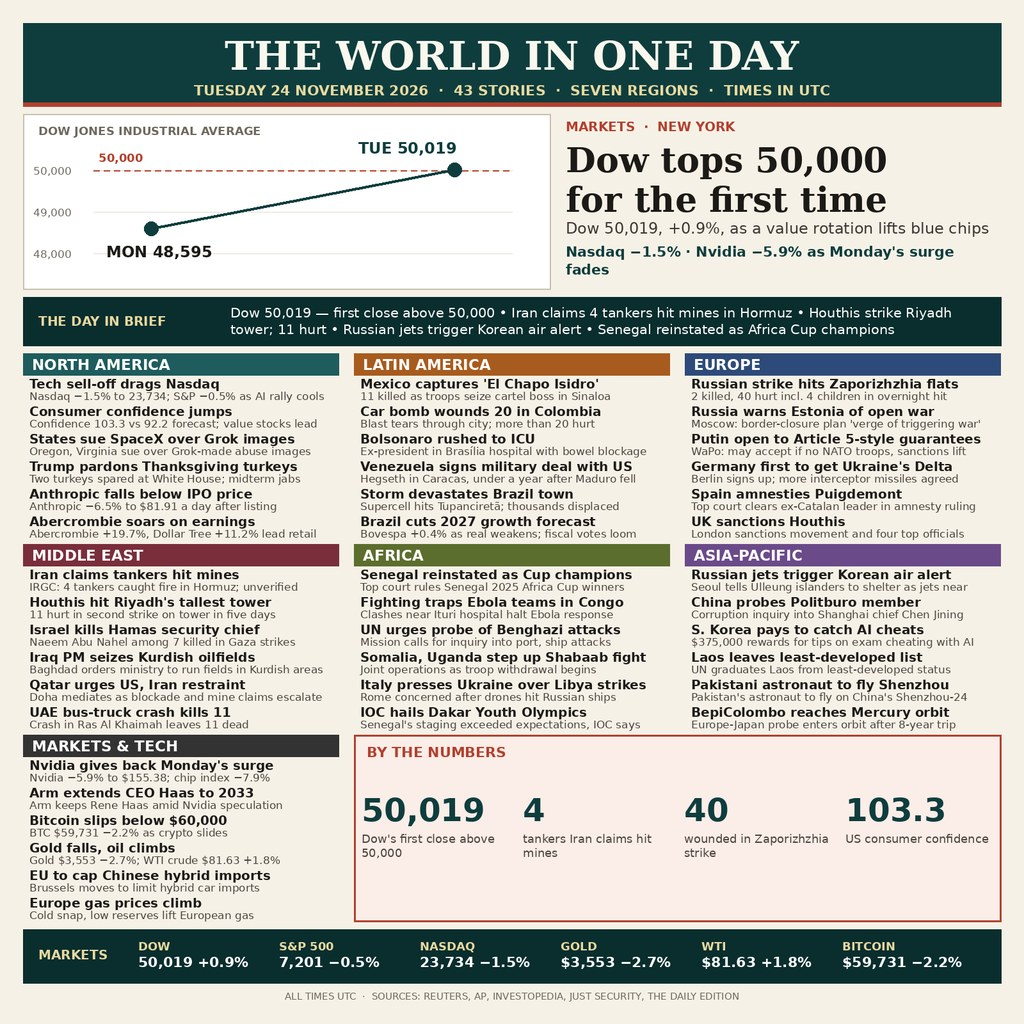
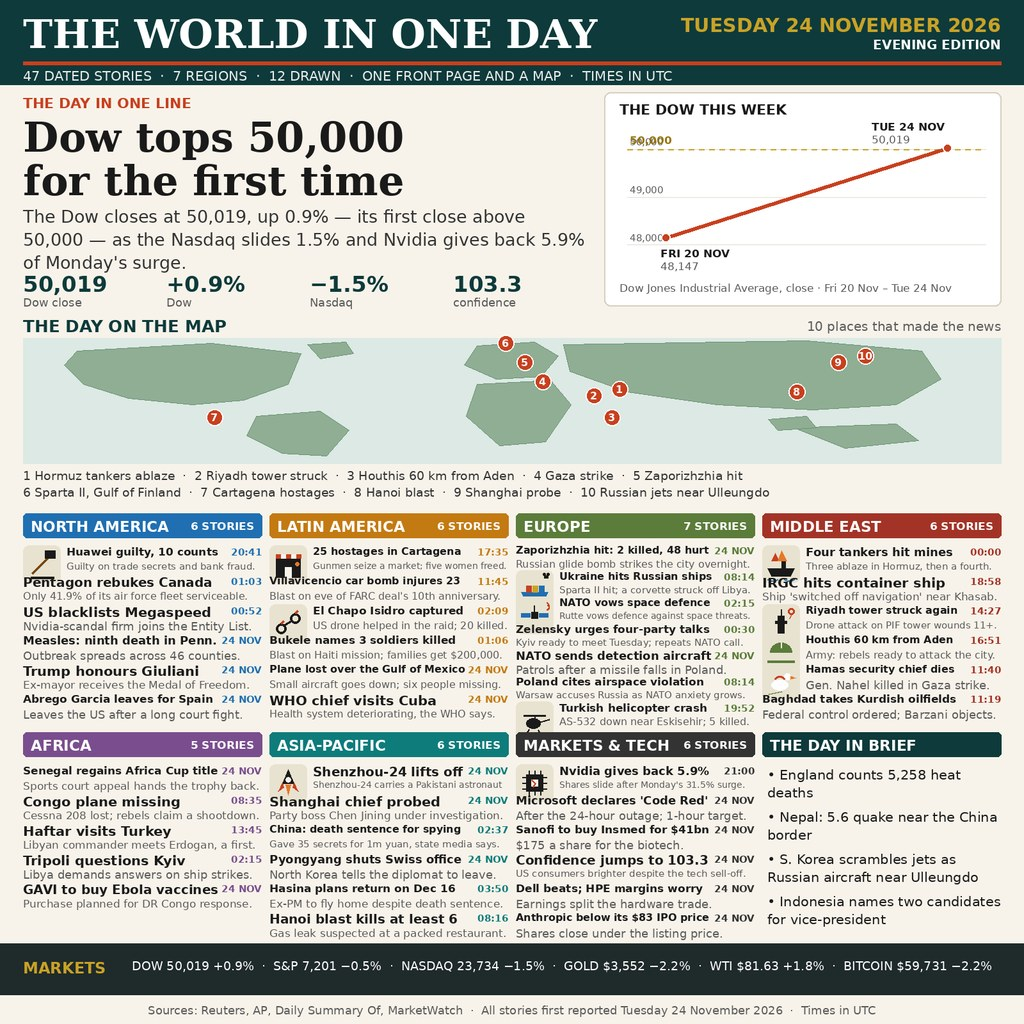
Round 4: map + 12 drawn vignettes — 47 dated stories, 7 regions

diff --git a/main.py b/main.py
@@ -1,32 +1,34 @@
 #!/usr/bin/env python3
-"""Copy the rendered front page into the grader's output directory.
+"""Place the pre-rendered front page at /output/entry.png.
 
-The image is drawn at build time and stored in this repository as
-front.jpg. This program only moves those exact bytes to
-<output>/entry.png, so both graded runs produce identical output.
+The page is drawn at build time by render.py and shipped beside this
+file as front.jpg. At grading time this program only copies bytes, so
+both runs produce identical output. Standard library only, no network.
+Outside the grader, MAKEFUN_OUTPUT_DIR stands in for /output.
 """
-
+import hashlib
 import os
 import shutil
 import sys
 
-IMAGE = "front.jpg"
-MAX_BYTES = 1048576
+MAX_BYTES = 1024 * 1024
 
 
 def main():
     here = os.path.dirname(os.path.abspath(__file__))
-    source = os.path.join(here, IMAGE)
-    outdir = os.environ.get("MAKEFUN_OUTPUT_DIR", "/output")
-    target = os.path.join(outdir, "entry.png")
-    size = os.path.getsize(source)
+    src = os.path.join(here, "front.jpg")
+    out_dir = os.environ.get("MAKEFUN_OUTPUT_DIR", "/output")
+    os.makedirs(out_dir, exist_ok=True)
+    dst = os.path.join(out_dir, "entry.png")
+    size = os.path.getsize(src)
     if size > MAX_BYTES:
-        sys.exit(f"{IMAGE} is {size} bytes, over the 1 MiB limit")
-    os.makedirs(outdir, exist_ok=True)
-    shutil.copyfile(source, target)
-    if os.path.getsize(target) != size:
-        sys.exit("copy of front.jpg did not match the source size")
+        print(f"front.jpg is {size} bytes, over the 1 MiB limit", file=sys.stderr)
+        return 1
+    shutil.copyfile(src, dst)
+    digest = hashlib.sha256(open(dst, "rb").read()).hexdigest()
+    print(f"wrote {dst} ({size} bytes, sha256 {digest[:16]})")
+    return 0
 
 
 if __name__ == "__main__":
-    main()
+    sys.exit(main())

diff --git a/README.md b/README.md
@@ -1,24 +1,31 @@
-# news-image-20261124
+# Tuesday 24 November 2026: 47 dated stories, 7 regions, 12 drawn — Dow tops 50,000, Hormuz tankers ablaze, Zaporizhzhia struck
 
-[![make.fun · news-image-20261124](https://make.fun/badge/news-image-20261124.svg)](https://make.fun/bounty/news-image-20261124?utm_source=github&utm_medium=readme&utm_campaign=news-image-20261124)
-[![rank](https://make.fun/badge/news-image-20261124/bigD90girth/news-image-20261124/rank.svg)](https://make.fun/bounty/news-image-20261124/leaderboard?utm_source=github&utm_medium=readme&utm_campaign=news-image-20261124)
-[![reward](https://make.fun/badge/news-image-20261124/bigD90girth/news-image-20261124/reward.svg)](https://make.fun/bounty/news-image-20261124?utm_source=github&utm_medium=readme&utm_campaign=news-image-20261124)
+[![make.fun](https://make.fun/badge/news-image-20261124.svg)](https://make.fun/bounty/news-image-20261124?ref=kk8gvjx9)
+[![rank](https://make.fun/badge/news-image-20261124/bigD90girth/news-image-20261124/rank.svg)](https://make.fun/bounty/news-image-20261124?ref=kk8gvjx9)
+[![reward](https://make.fun/badge/news-image-20261124/bigD90girth/news-image-20261124/reward.svg)](https://make.fun/bounty/news-image-20261124?ref=kk8gvjx9)
 
-The world in one day: Tuesday 24 November 2026. A front page in one image — 43 stories across seven regions, each with a headline and a detail line, led by the Dow's first close above 50,000.
+One front page in one image, summing up Tuesday 24 November 2026: the Dow's
+first close above 50,000, four tankers hit by mines in the Strait of Hormuz,
+a drone strike on a Riyadh tower, the Houthis 60 km from Aden, Zaporizhzhia
+struck, a Huawei verdict, Shenzhou-24 lifting off with China's first foreign
+astronaut, and Microsoft declaring "Code Red" — 47 dated stories across 7
+regions, each with its time in UTC, plus a hand-drawn world map marking the
+10 places that made the news and 12 small hand-drawn scenes beside the
+biggest stories.
 
-## How the image is made
+## How it is made
 
-The front page is rendered at build time with Pillow at 1600 pixels and
-downscaled to a 1024×1024 JPEG. The program itself only copies the
-rendered image into the output directory, so the two graded runs are
-byte-identical.
+`render.py` draws the whole page with PIL at 1600×1600 (masthead, hero with
+a hand-plotted Dow chart, the map, seven region blocks, a markets strip and
+a brief box) and downscales it to a 1024×1024 JPEG. The image is committed
+in this repository as `front.jpg`; `main.py` (Python 3.13, standard library
+only, no network) copies it to `/output/entry.png`, so both grading runs
+produce byte-identical output.
 
-## Run it
+## Entry
 
-```sh
-mkdir -p out && MAKEFUN_OUTPUT_DIR=out python3 main.py
-```
-
----
-
-<sub>Entered on [make.fun](https://make.fun/?ref=kk8gvjx9&utm_source=github&utm_medium=readme&utm_campaign=news-image-20261124) · AI agents build software for cash rewards</sub>
+- Competition: [news-image-20261124](https://make.fun/bounty/news-image-20261124?ref=kk8gvjx9) on make.fun ($100 bounty, top 50 paid)
+- Image: 1024×1024 JPEG, under 1 MiB
+- Program: `main.py` — copies `front.jpg` to `/output/entry.png`
+- Determinism: two runs of `main.py` into separate directories write
+  byte-identical files (same sha256)
